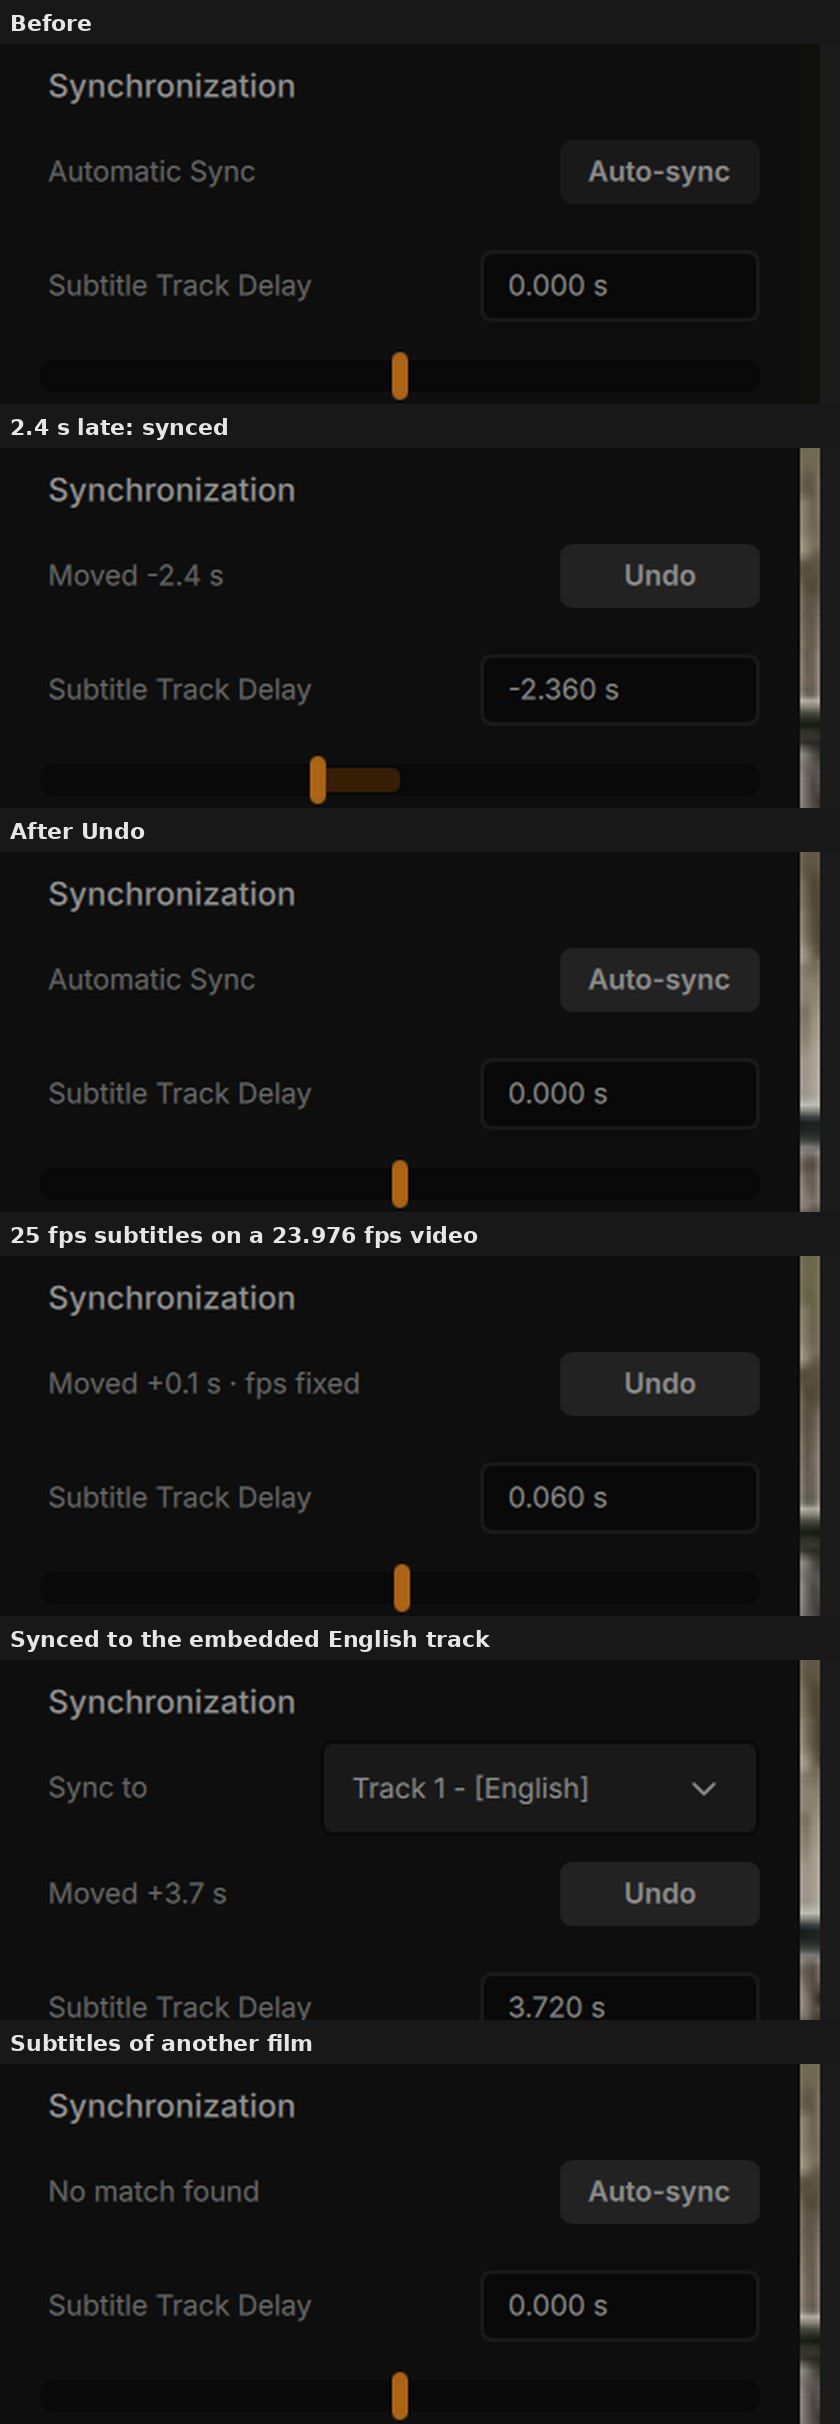
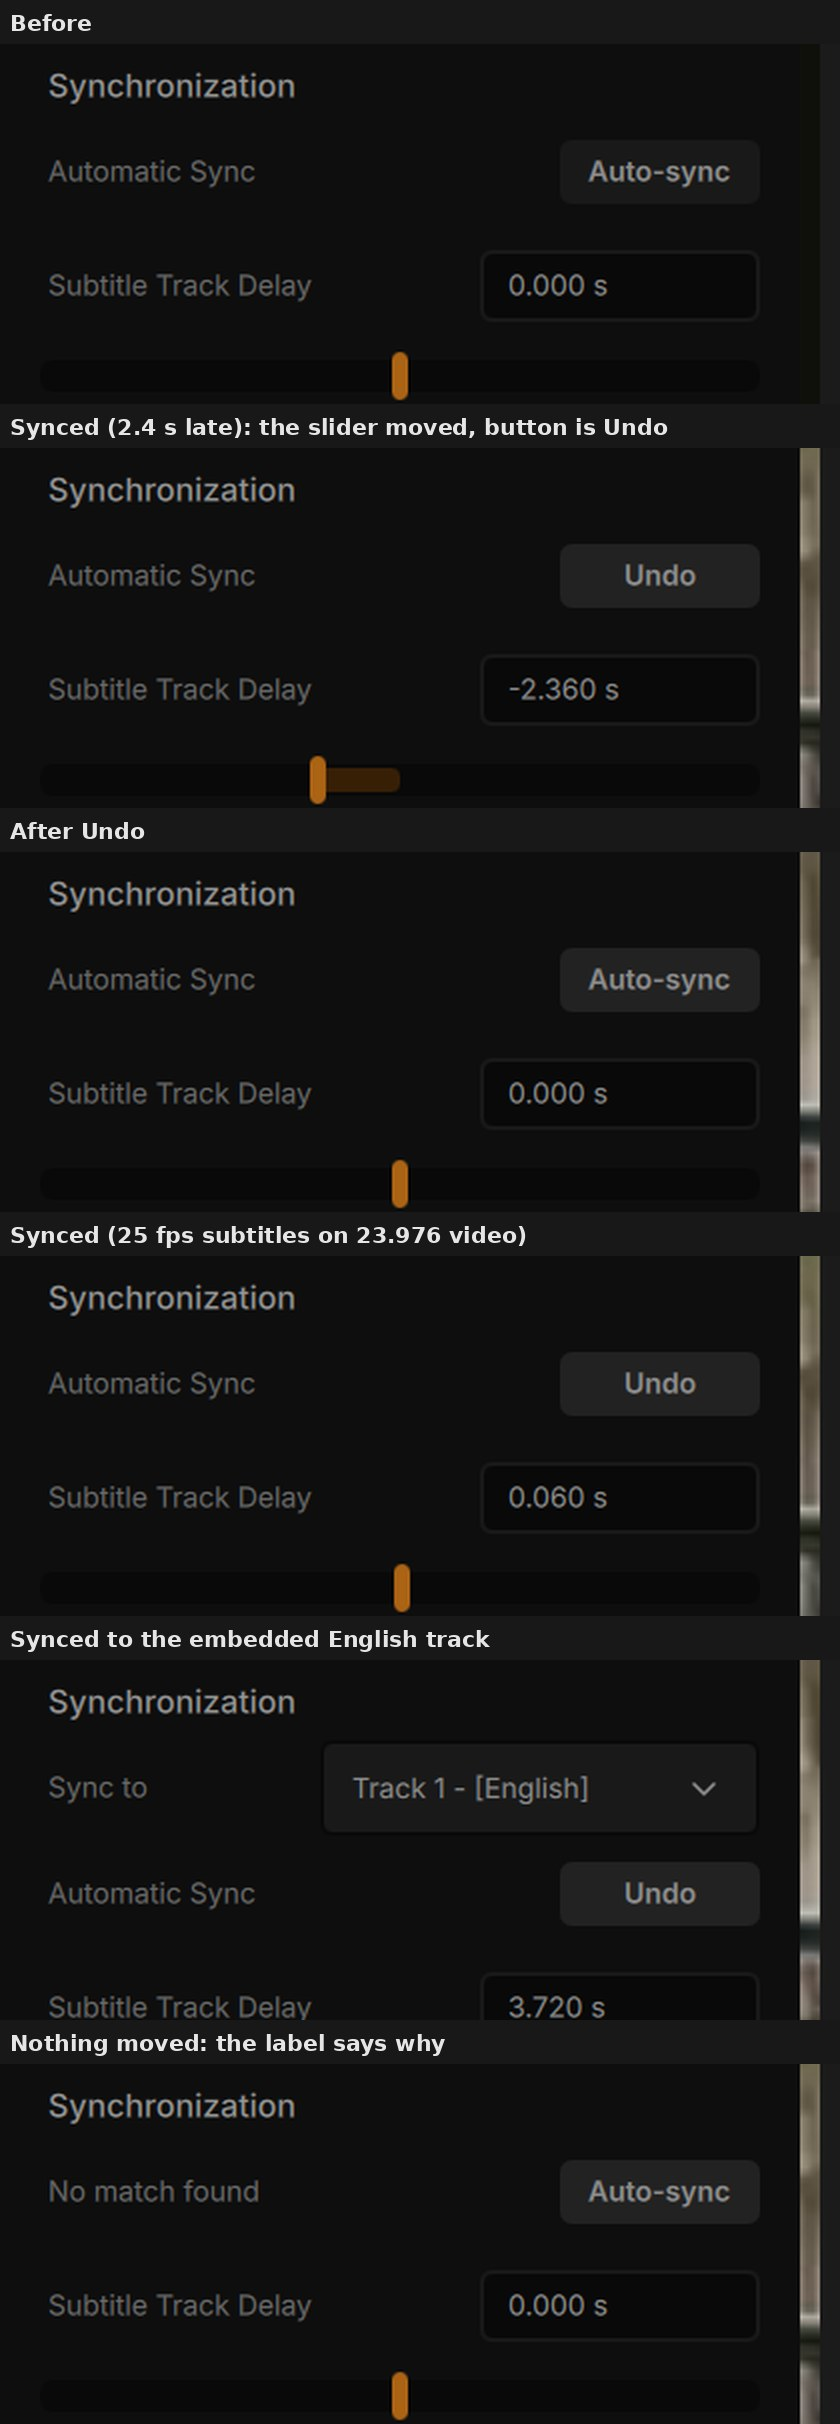
notes: Auto-sync builds #90 and #192 green, slider-only shots [skip ci]
Claude-Session: https://claude.ai/code/session_01Q5W7rfFwkurSTdGY9s6BBU

diff --git a/redesign/SUBTITLE_AUTO_SYNC_NOTES.md b/redesign/SUBTITLE_AUTO_SYNC_NOTES.md
@@ -85,7 +85,7 @@ Branch `wip/subtitle-auto-sync`, made from `origin/wip/next-test`. Draft pull re
 
 ![Sandbox](fix-shots/auto_sync_sandbox.jpg)
 - **Found while testing:** VLC also loads a subtitle file named like the video from its folder (`tos24.en.srt` next to `tos24.mkv`), and selects it. Auto-sync then works on that track, as it should (case 4 runs from its own folder).
-- **One-row layout on build-linux #89** (same four cases, same results: -2.36 s, factor 25/23.976 with +60 ms, +3.72 s from the English track, no match). Undo is the button itself, exposed to AT-SPI as "Undo Auto-sync"; clicking it puts the delay back to 0.000 s and the row back to "Automatic Sync".
+- **One-row layout on build-linux #89, then #90 with the label staying "Automatic Sync" after a move (StickyGonzales approved the mockup)** (same four cases, same results: -2.36 s, factor 25/23.976 with +60 ms, +3.72 s from the English track, no match). Undo is the button itself, exposed to AT-SPI as "Undo Auto-sync"; clicking it puts the delay back to 0.000 s and the row back to "Automatic Sync".
 
 ![One row](fix-shots/auto_sync_row.jpg)
 - **Changed after the sandbox:** the result line under the button (shots above) is gone. The outcome is now the row's label and Undo is the button, which also fixes a found bug: the result line and its Undo were missing from the accessibility tree (AT-SPI). The Auto-sync row was always exposed.
@@ -116,6 +116,8 @@ A fresh agent reviewed the whole diff. It found no deadlock, lifetime or ownersh
 | build-linux, build-windows (4a01e7b99f) | the accessibility fix | superseded by the one-row layout, cancelled |
 | build-linux #89 (run 41703941299) | 6fe216ee38 | green, smoke included; sandbox below |
 | build-windows #191 (run 41703946938) | 6fe216ee38 | green, smoke included |
+| build-linux #90 (run 41712060158) | 5ddf1dc324 (a move shows on the sliders only) | green, smoke included; sandbox: same four results, shots in fix-shots/auto_sync_row.jpg |
+| build-windows #192 (run 41712066560) | 5ddf1dc324 | green, smoke included |
 
 ## Windows retest (PC session)
 Build: the build-windows run of this branch (or `gh workflow run build-windows.yml --ref wip/subtitle-auto-sync`), Cone (portable). Use an episode or film with dialogue, plus its matching .srt.
